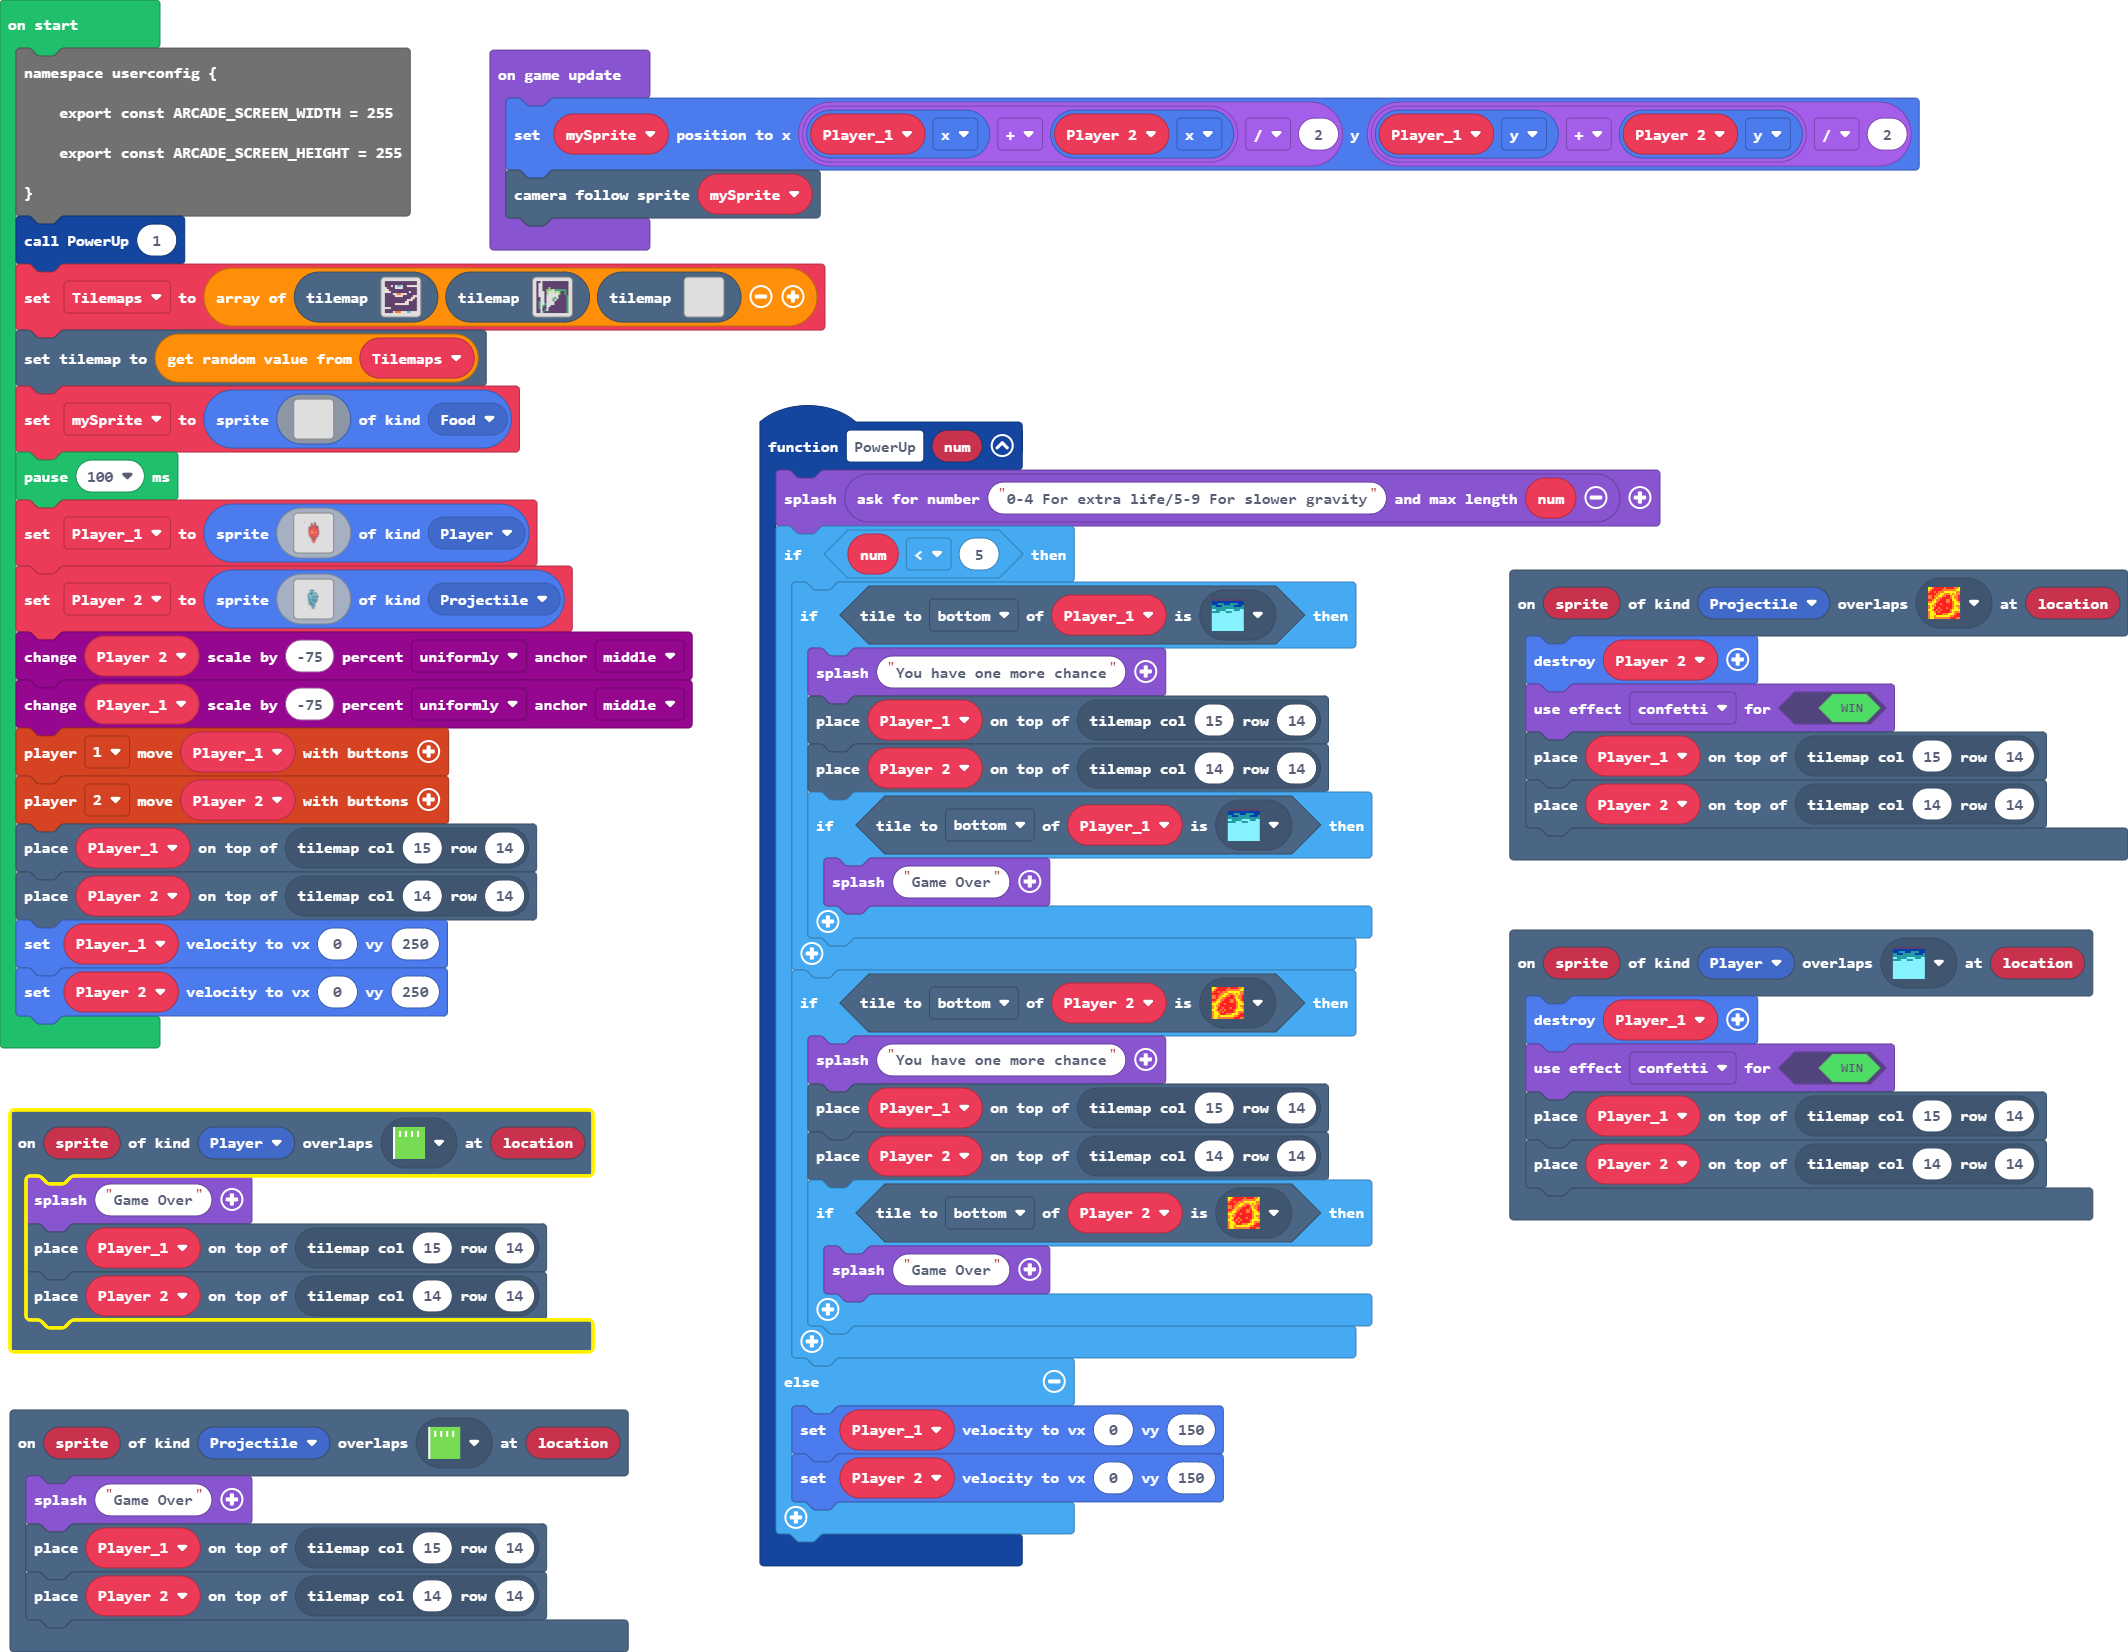
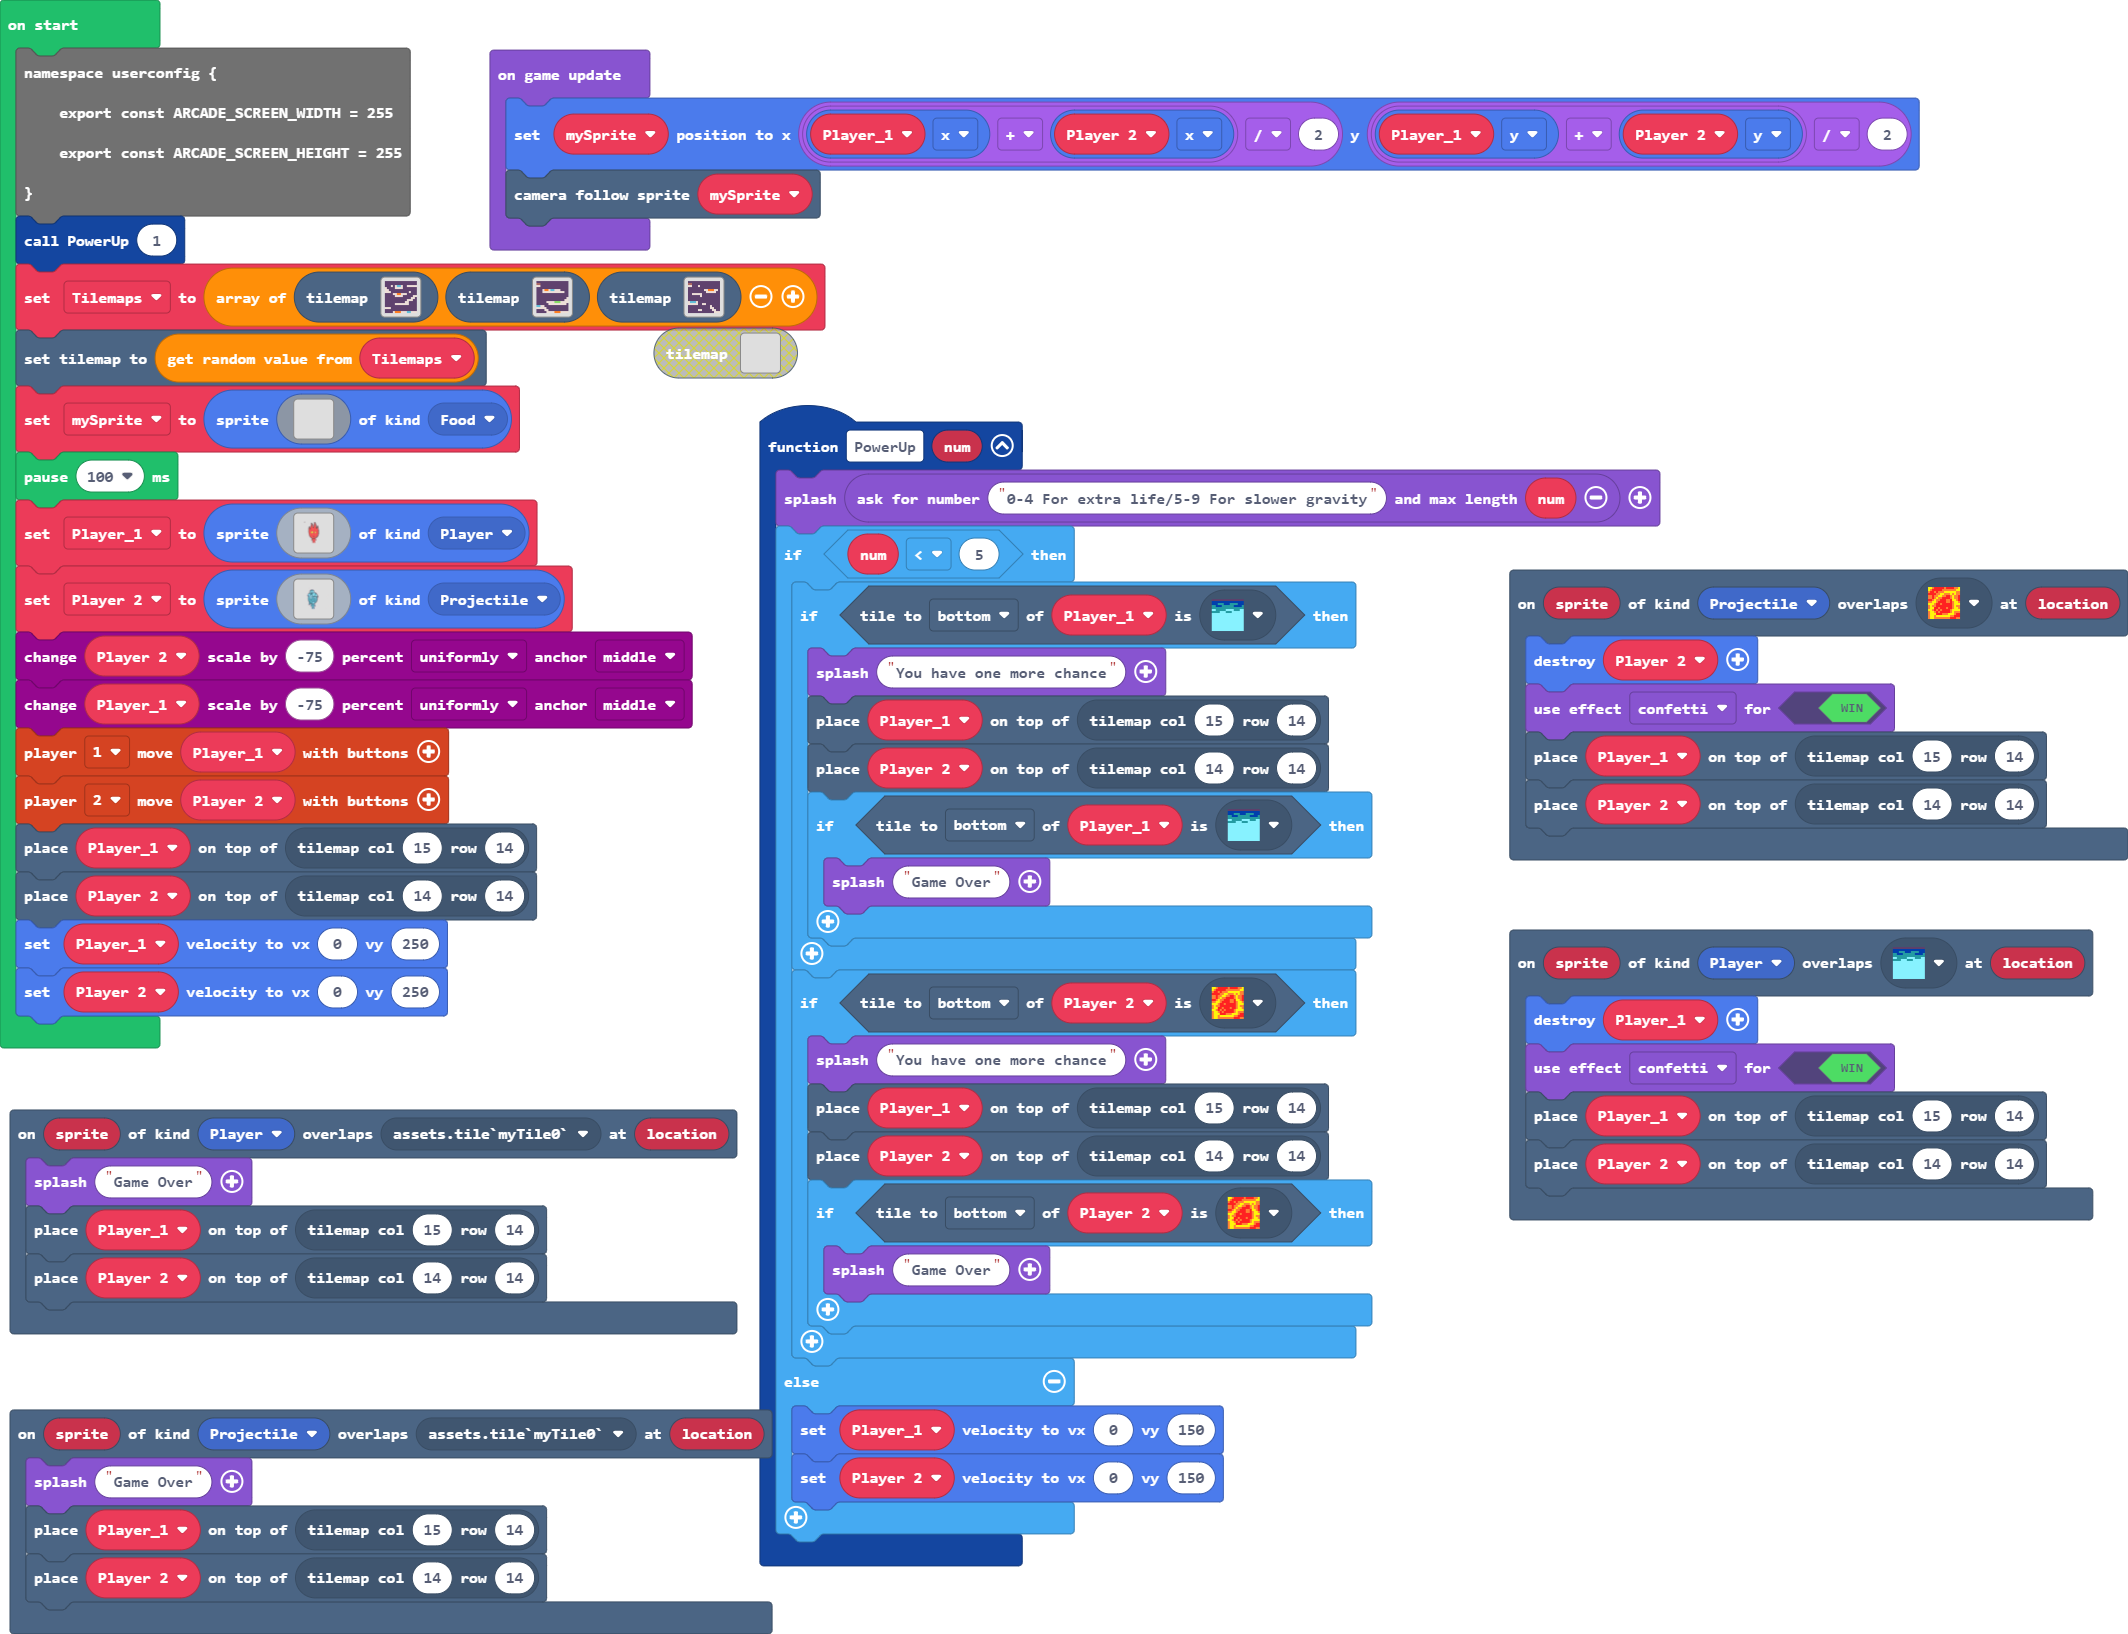
Update main.blocks, main.ts, tilemap.g.jres, tilemap.g.ts

diff --git a/tilemap.g.ts b/tilemap.g.ts
@@ -8,6 +8,10 @@ namespace myTiles {
     export const tile1 = image.ofBuffer(hex``);
     //% fixedInstance jres blockIdentity=images._tile
     export const tile2 = image.ofBuffer(hex``);
+    //% fixedInstance jres blockIdentity=images._tile
+    export const tile3 = image.ofBuffer(hex``);
+    //% fixedInstance jres blockIdentity=images._tile
+    export const tile4 = image.ofBuffer(hex``);
 
     helpers._registerFactory("tilemap", function(name: string) {
         switch(helpers.stringTrim(name)) {
@@ -48,25 +52,6 @@ namespace myTiles {
 . . . . . . . . . . . . . . . . 
 . . . . . . . . . . . . . . . . 
 `, [myTiles.transparency16], TileScale.Sixteen);
-            case "level 1":
-            case "level 1":return tiles.createTilemap(hex`1000100001010101010101010101010101010101010101010101010101010101010101010101010201020404020101020202020202010101010202020201010101010101020201010101010101010101010101010202020101010101010101010201010101010101020203030202020101010101010101010102020202010101010102020101010101010101010101010102020101010101010101010101010202020101010101010101010101010202010101010101010101020202020202020101010101010101010101010101010101010101020202010101010101010101010101010101010101010101010101010101010101010101020505050202020404020202`, img`
-. . . . . . . . . . . . . . . . 
-. . . . . . . . . . . . . . . . 
-. . . 2 . 2 . . 2 . . 2 2 2 2 2 
-2 . . . . 2 2 2 2 . . . . . . . 
-2 2 . . . . . . . . . . . . . . 
-2 2 2 . . . . . . . . . 2 . . . 
-. . . . 2 2 . . 2 2 2 . . . . . 
-. . . . . 2 2 2 2 . . . . . 2 2 
-. . . . . . . . . . . . . 2 2 . 
-. . . . . . . . . . . 2 2 2 . . 
-. . . . . . . . . . 2 2 . . . . 
-. . . . . 2 2 2 2 2 2 2 . . . . 
-. . . . . . . . . . . . . . . . 
-2 2 2 . . . . . . . . . . . . . 
-. . . . . . . . . . . . . . . . 
-. . . . 2 . . . 2 2 2 . . 2 2 2 
-`, [myTiles.transparency16,sprites.dungeon.darkGroundCenter,sprites.builtin.brick,sprites.dungeon.hazardLava1,sprites.dungeon.hazardWater,sprites.dungeon.hazardLava0], TileScale.Sixteen);
             case "level4":
             case "level4":return tiles.createTilemap(hex`1000100000000000000000000000000000000000000000000000000000000000000000000000000000000000000000000000000000000000000000000000000000000000000000000000000000000000000000000000000000000000000000000000000000000000000000000000000000000000000000000000000000000000000000000000000000000000000000000000000000000000000000000000000000000000000000000000000000000000000000000000000000000000000000000000000000000000000000000000000000000000000000000000000000000000000000000000000000000000000000000000000000000000000000000000000000000000`, img`
 . . . . . . . . . . . . . . . . 
@@ -200,8 +185,46 @@ namespace myTiles {
 . . . . . . . . . . . . . . . . 
 . . . . . . . . . . . . . . . . 
 `, [], -Infinity);
+            case "level11":
+            case "level11":return tiles.createTilemap(hex`1000100001010101010101010101010101010101060601010101010101010101010101010202030301020101010101010101010101010101010101010101010101010101010101010101010102020404040202010101010101010101010202020202010101010202020202010101010101010101010103030101020101010101010101010101010101010101010101010101010101010101010101010101010101010101020505050201010101010101010101010202020202010102020101010101010101010101010101030101010201010101010101010101010101010102020101010101010101020201010101010202010101010101010101010101010101020202`, img`
+. . . . . . . . . . . . . . . . 
+. . . . . . . . . . . . . . . . 
+2 2 . . . 2 . . . . . . . . . . 
+. . . . . . . . . . . . . . . . 
+. . . . . . . . 2 2 . . . 2 2 . 
+. . . . . . . . . 2 2 2 2 2 . . 
+. . 2 2 2 2 2 . . . . . . . . . 
+. . . . . . 2 . . . . . . . . . 
+. . . . . . . . . . . . . . . . 
+. . . . . . . . . . . . . . . . 
+2 . . . 2 . . . . . . . . . . . 
+2 2 2 2 2 . . 2 2 . . . . . . . 
+. . . . . . . . . . . 2 . . . . 
+. . . . . . . . . . . 2 2 . . . 
+. . . . . 2 2 . . . . . 2 2 . . 
+. . . . . . . . . . . . . 2 2 2 
+`, [myTiles.transparency16,myTiles.tile1,sprites.builtin.brick,sprites.dungeon.darkGroundCenter,sprites.dungeon.hazardLava0,sprites.dungeon.hazardWater,sprites.dungeon.chestClosed], TileScale.Sixteen);
+            case "level 1":
+            case "level 1":return tiles.createTilemap(hex`1000100001010101010101010101010101010101010101010101010101010101010101010101010201020303020101020202020202010101010202020201010101010101020201010101010101010101010101010202020101010101010101010201010101010101020204040202020101010101010101010102020202010101010102020101010101010101010101010102020101010101010101010101010202020101010101010101010101010202010101010101010101020202020202020101010101010101010101010101010101010101020202010101010101010101010101010101010101010101010101010101010101010101020404040202020303020202`, img`
+. . . . . . . . . . . . . . . . 
+. . . . . . . . . . . . . . . . 
+. . . 2 . 2 . . 2 . . 2 2 2 2 2 
+2 . . . . 2 2 2 2 . . . . . . . 
+2 2 . . . . . . . . . . . . . . 
+2 2 2 . . . . . . . . . 2 . . . 
+. . . . 2 2 . . 2 2 2 . . . . . 
+. . . . . 2 2 2 2 . . . . . 2 2 
+. . . . . . . . . . . . . 2 2 . 
+. . . . . . . . . . . 2 2 2 . . 
+. . . . . . . . . . 2 2 . . . . 
+. . . . . 2 2 2 2 2 2 2 . . . . 
+. . . . . . . . . . . . . . . . 
+2 2 2 . . . . . . . . . . . . . 
+. . . . . . . . . . . . . . . . 
+. . . . 2 . . . 2 2 2 . . 2 2 2 
+`, [myTiles.transparency16,sprites.dungeon.darkGroundCenter,sprites.builtin.brick,sprites.dungeon.hazardWater,sprites.dungeon.hazardLava0], TileScale.Sixteen);
             case "level3":
-            case "level3":return tiles.createTilemap(hex`1000100002020201010101010101010101010101070702010101010101010101010101010303020101010101010101010101010102020201010102010101010101010101020202030404030505030303020202010202020303030303030303030303020102020202010202020202020202020201020202020102020202020202020202020202020201020202020202020202020302020202010202020202020202020303020202020103030303060606030303030202020202020303030303030303030205050303010202020202020202020202030303030302020202020202020202020202020103030202020202020202020202020202020303030304040403030303`, img`
+            case "level3":return tiles.createTilemap(hex`1000100002020201010101010101010101010101060602010101010101010101010101010303020101010101010101010101010102020201010102010101010101010101020202030707030404030303020202010202020303030303030303030303020102020202010202020202020202020201020202020102020202020202020202020202020201020202020202020202020302020202010202020202020202020303020202020103030303050505030303030202020202020303030303030303030204040303010202020202020202020202030303030302020202020202020202020202020103030202020202020202020202020202020303030307070703030303`, img`
 . . . . . . . . . . . . . . . . 
 . . . . . . . . . . . . . . . . 
 2 2 . . . . . . . . . . . . . . 
@@ -218,7 +241,7 @@ namespace myTiles {
 2 2 2 2 2 . . . . . . . . . . . 
 . . . . 2 2 . . . . . . . . . . 
 . . . . . 2 2 2 2 . . . 2 2 2 2 
-`, [myTiles.transparency16,myTiles.tile1,sprites.dungeon.darkGroundCenter,sprites.builtin.brick,sprites.dungeon.hazardLava1,sprites.dungeon.hazardWater,sprites.builtin.field0,sprites.dungeon.chestClosed], TileScale.Sixteen);
+`, [myTiles.transparency16,myTiles.tile1,sprites.dungeon.darkGroundCenter,sprites.builtin.brick,sprites.dungeon.hazardWater,sprites.builtin.field0,sprites.dungeon.chestClosed,sprites.dungeon.hazardLava0], TileScale.Sixteen);
         }
         return null;
     })
@@ -229,8 +252,9 @@ namespace myTiles {
             case "transparency8":return transparency8;
             case "myTile":
             case "tile1":return tile1;
-            case "myTile0":
             case "tile2":return tile2;
+            case "tile3":return tile3;
+            case "tile4":return tile4;
         }
         return null;
     })

diff --git a/main.ts b/main.ts
@@ -51,7 +51,7 @@ namespace userconfig {
     export const ARCADE_SCREEN_HEIGHT = 255
 }
 PowerUp(1)
-let Tilemaps = [tilemap`level 1`, tilemap`level3`, tilemap`level8`]
+let Tilemaps = [tilemap`level 1`, tilemap`level3`, tilemap`level11`]
 tiles.setCurrentTilemap(Tilemaps._pickRandom())
 let mySprite = sprites.create(img`
     . . . . . . . . . . . . . . . . 
